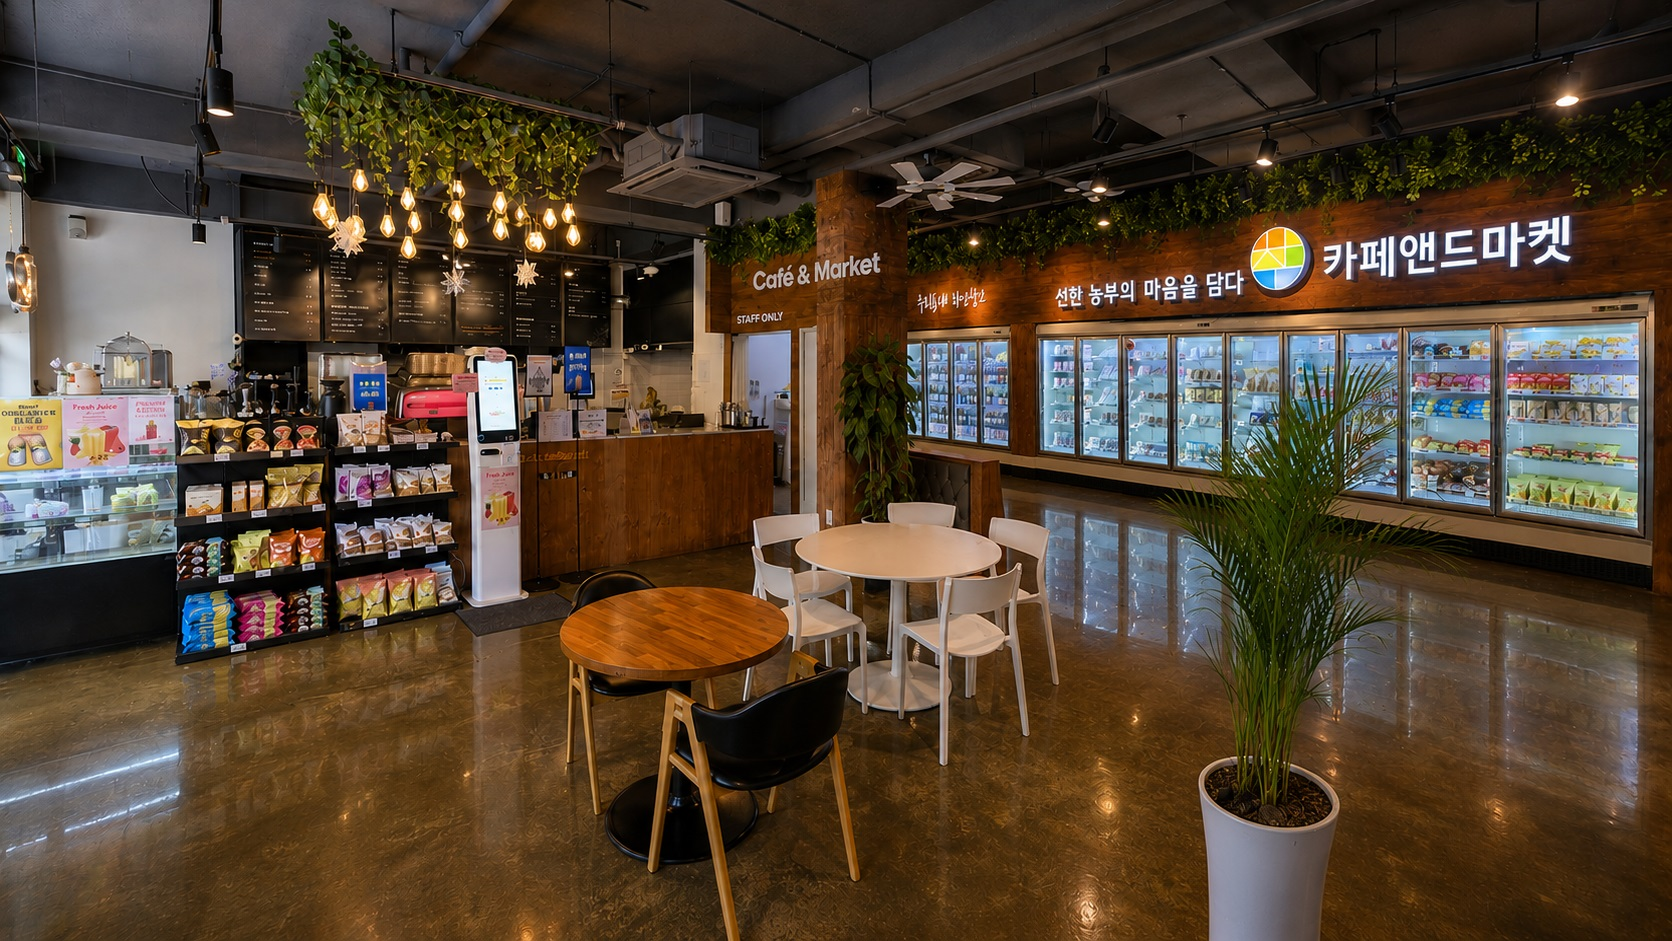
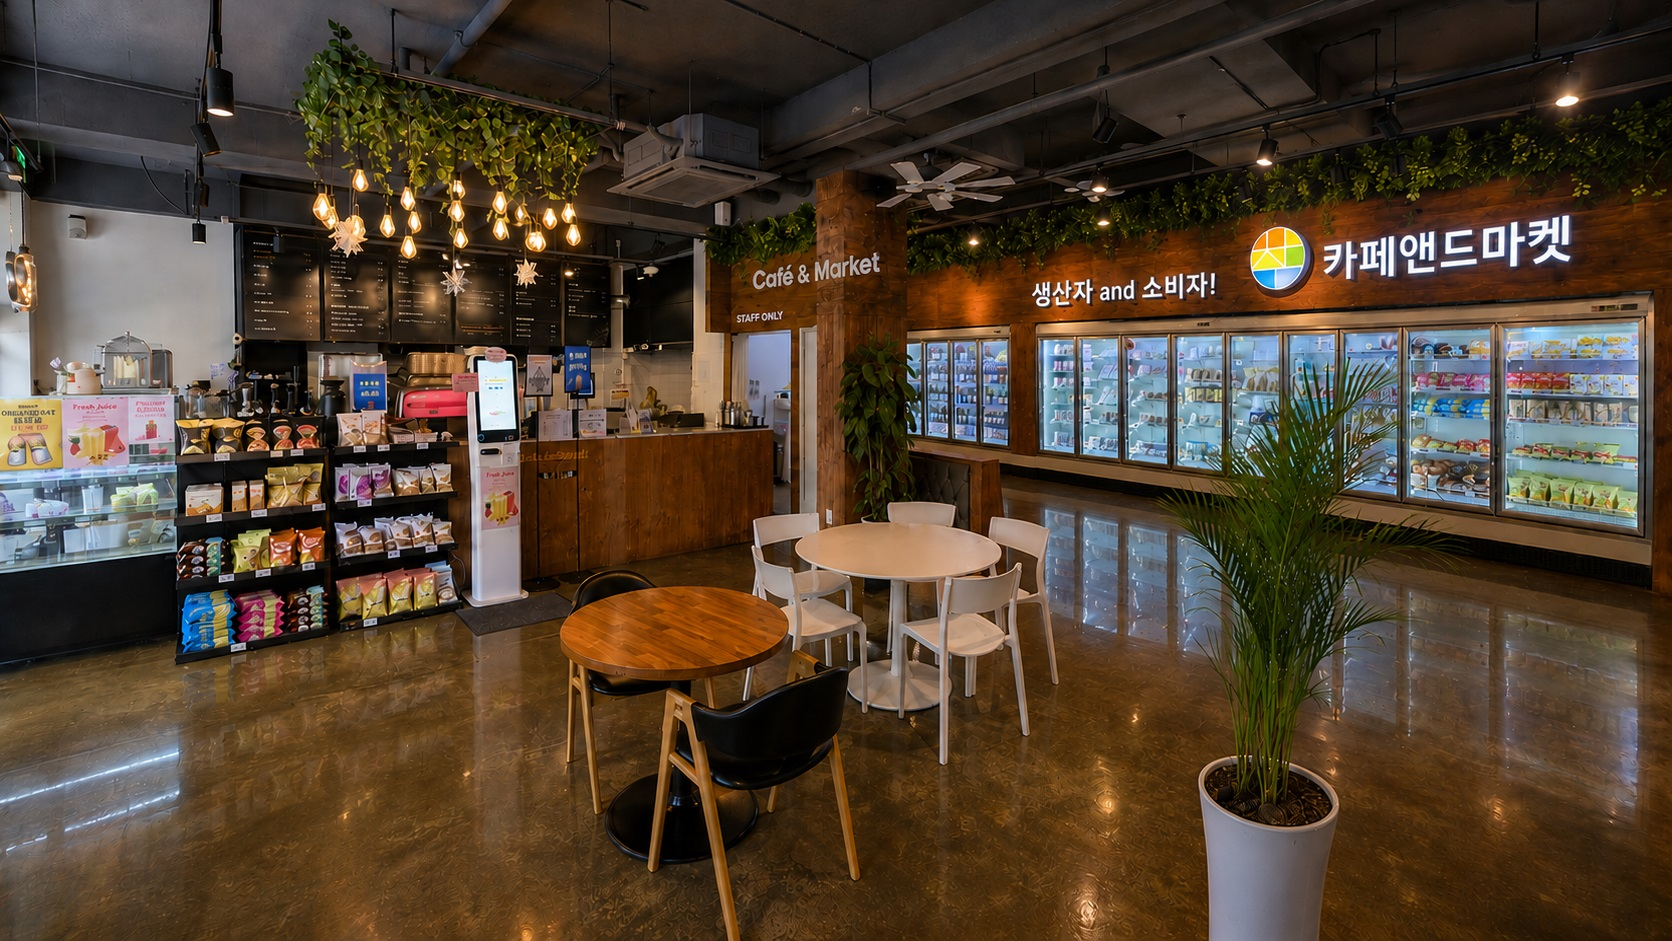
전체 코드 배포

diff --git a/index.html b/index.html
@@ -235,12 +235,6 @@ tailwind.config = {
     <div class="absolute inset-0 flex items-center">
       <div class="max-w-7xl mx-auto w-full px-6 md:px-10">
         <div class="max-w-3xl">
-          <!-- Badge -->
-          <div class="inline-flex items-center gap-2 rounded-full px-4 py-2 mb-6" style="animation: fade-in-up 0.6s ease-out; background: rgba(249,115,22,0.18); backdrop-filter: blur(10px); border: 1px solid rgba(251,146,60,0.4);">
-            <div class="w-2 h-2 rounded-full bg-orange-400" style="box-shadow: 0 0 12px rgba(251,146,60,0.9);"></div>
-            <span class="text-xs font-bold text-orange-200 tracking-widest">FRANCHISE BUSINESS · 2026</span>
-          </div>
-
           <!-- Empathy Message -->
           <p class="text-base md:text-xl text-orange-100 font-bold mb-5 leading-relaxed drop-shadow-lg" style="animation: fade-in-up 0.7s ease-out;">
             ☕ 꿈을 안고 시작했던 <span class="text-orange-300">그 카페</span>,<br class="md:hidden">